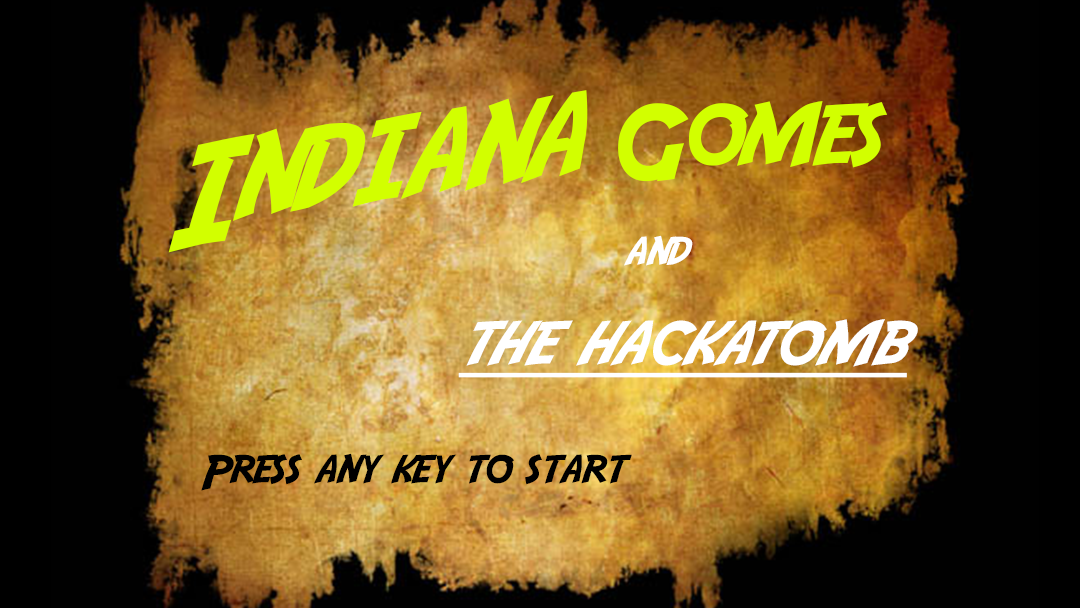
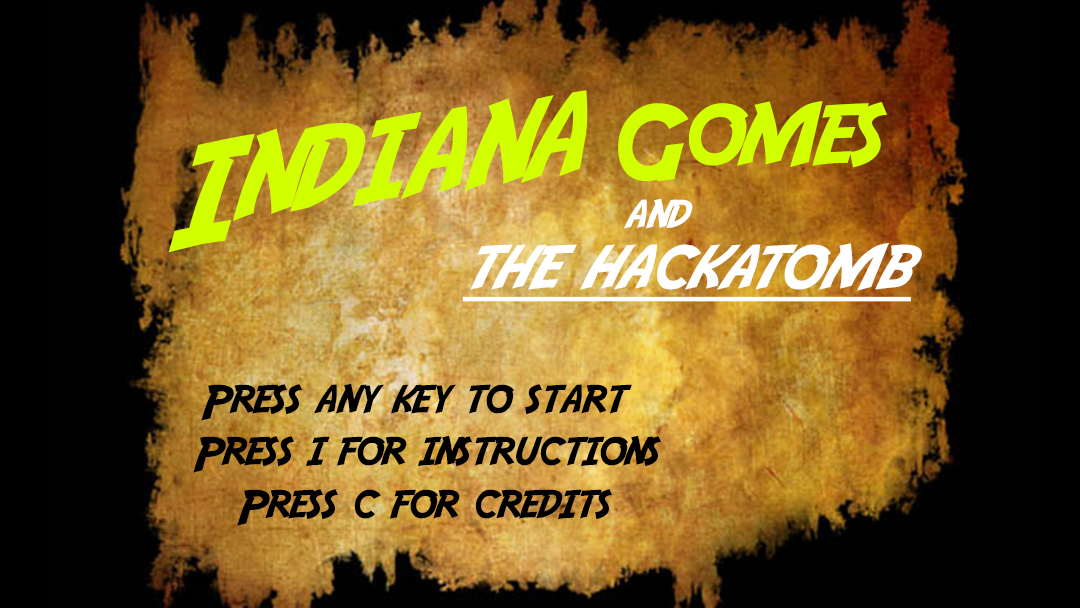
multiple screens added -> Instructions and Credits, needs fix to MainScreen

Changed region(s): [[0.1833, 0.3125, 0.8556, 0.6875], [0.1833, 0.7188, 0.6111, 0.875]]

diff --git a/core/src/org/academiadecodigo/hackathon/screens/CreditsScreen.java b/core/src/org/academiadecodigo/hackathon/screens/CreditsScreen.java
@@ -2,29 +2,26 @@ package org.academiadecodigo.hackathon.screens;
 
 import com.badlogic.gdx.Gdx;
 import com.badlogic.gdx.Input;
+import com.badlogic.gdx.Screen;
 import com.badlogic.gdx.graphics.GL20;
 import com.badlogic.gdx.graphics.OrthographicCamera;
 import com.badlogic.gdx.graphics.Texture;
-import com.sun.xml.internal.ws.policy.privateutil.PolicyUtils;
 import org.academiadecodigo.hackathon.Indiana;
 import org.academiadecodigo.hackathon.utils.Constants;
 
 /**
- * Created by codecadet on 16/03/17.
+ * Created by codecadet on 3/17/17.
  */
-public class MenuScreen extends AbstractGameScreen {
-
+public class CreditsScreen extends AbstractGameScreen {
     private final Indiana game;
     private OrthographicCamera camera;
     private Texture splashScreen;
 
-    public MenuScreen(final Indiana game) {
-
+    public CreditsScreen(Indiana game) {
         this.game = game;
 
         camera = new OrthographicCamera();
         camera.setToOrtho(false, Constants.CONFIG_WIDTH, Constants.CONFIG_HEIGHT);
-
     }
 
     @Override
@@ -34,7 +31,6 @@ public class MenuScreen extends AbstractGameScreen {
 
     @Override
     public void render(float delta) {
-
         Gdx.gl.glClearColor(0, 0, 0, 1);
         Gdx.gl.glClear(GL20.GL_COLOR_BUFFER_BIT);
 
@@ -43,21 +39,15 @@ public class MenuScreen extends AbstractGameScreen {
 
         game.batch.begin();
 
-        splashScreen = new Texture("IndianaGomes.png");
+        splashScreen = new Texture("credits.png");
         game.batch.draw(splashScreen,0,0,Constants.CONFIG_WIDTH,Constants.CONFIG_HEIGHT);
 
         game.batch.end();
 
         //Waiting for input of any key or touch
-        if (Gdx.input.isTouched() || Gdx.input.isKeyPressed(Input.Keys.ENTER)) {
+        if (Gdx.input.isKeyPressed(Input.Keys.ENTER)) {
             game.setScreen(new PlayScreen(game));
-        } else if (Gdx.input.isKeyPressed((Input.Keys.I))){
-            game.setScreen(new InstructionsScreen(game));
-        } else if (Gdx.input.isKeyPressed((Input.Keys.C))) {
-            game.setScreen(new CreditsScreen(game));
         }
-
-
     }
 
     @Override

diff --git a/core/src/org/academiadecodigo/hackathon/screens/InstructionsScreen.java b/core/src/org/academiadecodigo/hackathon/screens/InstructionsScreen.java
@@ -5,20 +5,19 @@ import com.badlogic.gdx.Input;
 import com.badlogic.gdx.graphics.GL20;
 import com.badlogic.gdx.graphics.OrthographicCamera;
 import com.badlogic.gdx.graphics.Texture;
-import com.sun.xml.internal.ws.policy.privateutil.PolicyUtils;
 import org.academiadecodigo.hackathon.Indiana;
 import org.academiadecodigo.hackathon.utils.Constants;
 
 /**
- * Created by codecadet on 16/03/17.
+ * Created by codecadet on 3/17/17.
  */
-public class MenuScreen extends AbstractGameScreen {
+public class InstructionsScreen extends AbstractGameScreen {
 
     private final Indiana game;
     private OrthographicCamera camera;
     private Texture splashScreen;
 
-    public MenuScreen(final Indiana game) {
+    public InstructionsScreen(final Indiana game) {
 
         this.game = game;
 
@@ -34,7 +33,6 @@ public class MenuScreen extends AbstractGameScreen {
 
     @Override
     public void render(float delta) {
-
         Gdx.gl.glClearColor(0, 0, 0, 1);
         Gdx.gl.glClear(GL20.GL_COLOR_BUFFER_BIT);
 
@@ -43,20 +41,15 @@ public class MenuScreen extends AbstractGameScreen {
 
         game.batch.begin();
 
-        splashScreen = new Texture("IndianaGomes.png");
+        splashScreen = new Texture("instructions.png");
         game.batch.draw(splashScreen,0,0,Constants.CONFIG_WIDTH,Constants.CONFIG_HEIGHT);
 
         game.batch.end();
 
         //Waiting for input of any key or touch
-        if (Gdx.input.isTouched() || Gdx.input.isKeyPressed(Input.Keys.ENTER)) {
+        if (Gdx.input.isKeyPressed(Input.Keys.ENTER)) {
             game.setScreen(new PlayScreen(game));
-        } else if (Gdx.input.isKeyPressed((Input.Keys.I))){
-            game.setScreen(new InstructionsScreen(game));
-        } else if (Gdx.input.isKeyPressed((Input.Keys.C))) {
-            game.setScreen(new CreditsScreen(game));
         }
-
 
     }
 

diff --git a/core/src/org/academiadecodigo/hackathon/gameobjects/Player.java b/core/src/org/academiadecodigo/hackathon/gameobjects/Player.java
@@ -123,7 +123,7 @@ public class Player extends GameObject implements com.badlogic.gdx.InputProcesso
 
 
         if (Gdx.input.isKeyJustPressed(Input.Keys.SPACE) && onTheFloor) {
-            this.b2dbody.applyLinearImpulse(new Vector2(0, 2f), this.b2dbody.getWorldCenter(), true);
+            this.b2dbody.applyLinearImpulse(new Vector2(0, Constants.PLAYER_JUMP_FORCE), this.b2dbody.getWorldCenter(), true);
         }
 
         if (Gdx.input.isKeyJustPressed(Input.Keys.F)) {

diff --git a/core/src/org/academiadecodigo/hackathon/utils/Constants.java b/core/src/org/academiadecodigo/hackathon/utils/Constants.java
@@ -31,6 +31,7 @@ public class Constants {
     public static final String PLAYER_REGION = "player";
     public static final float PLAYER_X_SPEED = 2;
     public static final float PLAYER_RUN_FORCE = 0.075f;
+    public static final float PLAYER_JUMP_FORCE = 2.8f;
 
     public static final float PROJECTILE_RADIUS = 2;
     public static final String PROJECTILE_RIGHT = "bullet_right.png";
